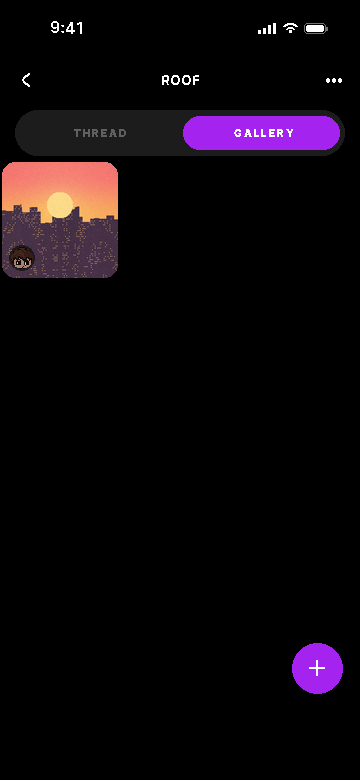
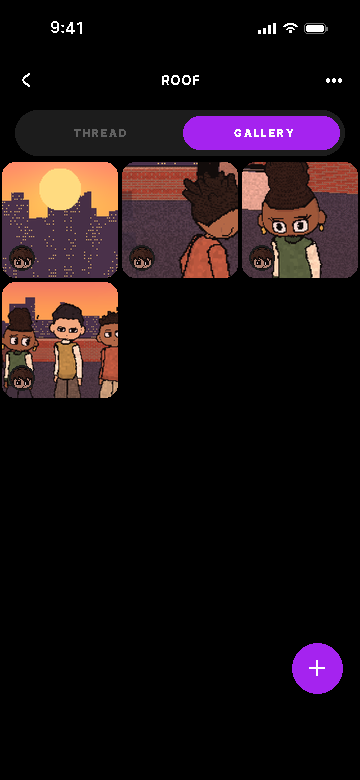
Group Photo rework: Maya speaks through the viewfinder; the album holds every try, and the zoom lands on the one Theo means
Claude-Session: https://claude.ai/code/session_019i3sgUp6puAAVeufqbiryk

Changed region(s): [[0.0, 0.1846, 1.0, 0.5231]]

diff --git a/studio/anim/src/ep/skits/groupPhoto.ts b/studio/anim/src/ep/skits/groupPhoto.ts
@@ -24,18 +24,22 @@ const shots: Shot[] = [
   // so he climbs on a chair
   { n: 9, frames: 34, spec: R('chair', [at('nio', 'chair', 'deadpan', { hold: 'photo' })], true, 0.35), sfx: [['oh_creak', 2, 0.5]] },
   { n: 10, frames: 40, spec: R('theoUp', [at('theo', 'theo', 'suspicious', { facing: 'nio2', gaze: [0, 0.6] })], true), say: [L('gp_05', 'theo', 4)] },
-  { n: 11, frames: 32, spec: R('pov', [{ who: 'theo', at: 'theo', to: 'theoOut', action: 'walk', face: 'deadpan', back: true }, at('maya', 'maya', 'neutral', { facing: 'nio2', gaze: [0, 0.5] })], true) },
+  { n: 11, frames: 32, finder: true, spec: R('pov', [{ who: 'theo', at: 'theo', to: 'theoOut', action: 'walk', face: 'deadpan', back: true }, at('maya', 'maya', 'neutral', { facing: 'nio2', gaze: [0, 0.5] })], true) },
   { n: 12, frames: 30, spec: R('chair', [at('nio', 'chair', 'uneasy', { hold: 'photo' })], true, 0.25) },
-  // Maya, the last one in the picture, says it to him, and goes
-  { n: 13, frames: 84, spec: R('maya', [at('maya', 'maya', 'real', { facing: 'nio2', gaze: [0, 0.5] })], true, 0.3), say: [L('gp_06', 'maya', 4)] },
-  { n: 14, frames: 30, spec: R('pov', [{ who: 'maya', at: 'maya', to: 'mayaOut', action: 'walk', face: 'neutral', back: true }], true) },
+  // Maya, the last one in the picture, says it to him through his phone (stranger, Nov 18: her line read as his until
+  // we saw she is the only one in the photo), and goes
+  { n: 13, frames: 84, finder: true, spec: R('povM', [at('maya', 'maya', 'real', { facing: 'nio2', gaze: [0, 0.5] })], true, 0.15), say: [L('gp_06', 'maya', 4)] },
+  { n: 14, frames: 30, finder: true, spec: R('pov', [{ who: 'maya', at: 'maya', to: 'mayaOut', action: 'walk', face: 'neutral', back: true }], true) },
   // alone on the chair, he turns round to the sunset. Flash.
   { n: 15, frames: 28, spec: R('chair', [at('nio', 'chair', 'deadpan', { hold: 'photo' })], true, 0.2) },
-  { n: 16, frames: 34, shake: [12], spec: R('sunset', [], true, 0.2), flash: 12, sfx: [['shutter', 12, 0.9]] },
+  { n: 16, frames: 34, finder: true, shake: [12], spec: R('sunset', [], true, 0.2), flash: 12, sfx: [['shutter', 12, 0.9]] },
+  // the album: the sunset with nobody in it, and every try before it (the cause of the last line is in the picture)
   { n: 17, frames: 52, img: 'pxi-ui/screens/roof-album.png' },
-  // later: all four crowd round Theo's phone, scrolling the album
-  // Theo, who says the last line, holds the phone front and centre (own check, Nov 18: Nio in front hid the speaker)
+  // later: all four crowd round Theo's phone, scrolling the album. Theo, who says the last line, holds the phone front
+  // and centre (own check, Nov 18: Nio in front hid the speaker)
   { n: 18, frames: 50, spec: R('phone', [at('theo', 'nio2', 'hyped', { facing: 'camera', gaze: [0, -0.4], hold: 'phone' }), at('nio', 'theoP', 'deadpan', { gaze: [-0.5, -0.4] }), at('maya', 'mayaP', 'charm', { gaze: [0.5, -0.4] }), at('sami', 'samiB', 'neutral', { gaze: [0.3, -0.4] })]), say: [L('gp_08', 'theo', 6)] },
-  { n: 19, frames: 40, spec: R('phone', [at('theo', 'nio2', 'hyped', { facing: 'camera', gaze: [0, -0.4], hold: 'phone' }), at('nio', 'theoP', 'deadpan', { gaze: [-0.9, 0.1] }), at('maya', 'mayaP', 'charm', { gaze: [0.5, -0.4] }), at('sami', 'samiB', 'neutral', { gaze: [0.3, -0.4] })], false, 0.25) },
+  // the one he means: the try where he is walking out of it, half his back
+  { n: 19, frames: 36, img: 'pxi-ui/screens/roof-album.png', zoom: [2.6, 30], sfx: [['oh_tap', 4, 0.7]] },
+  { n: 20, frames: 40, spec: R('phone', [at('theo', 'nio2', 'hyped', { facing: 'camera', gaze: [0, -0.4], hold: 'phone' }), at('nio', 'theoP', 'deadpan', { gaze: [-0.9, 0.1] }), at('maya', 'mayaP', 'charm', { gaze: [0.5, -0.4] }), at('sami', 'samiB', 'neutral', { gaze: [0.3, -0.4] })], false, 0.25) },
 ];
 export const GROUP_PHOTO: SkitDef = { id: 'group-photo', shots, beds: [['sk_wind', 0.3]] };

diff --git a/studio/anim/src/ep/Skit.tsx b/studio/anim/src/ep/Skit.tsx
@@ -30,7 +30,7 @@ import ACC_WB from '../lips/wb_accents.json';
 export type Line = { key: string; who: string; at: number }; // at: the frame inside the shot where the line starts
 // img: a full-screen picture instead of a set (a PXI screen, public/<img>), pushed in slowly. zoom: [scale, the height
 // it zooms toward, percent from the top], for a screen whose point is one row. flash: a camera flash at this frame.
-export type Shot = { n: number; frames: number; spec?: ShotSpec | ((f: number) => ShotSpec); img?: string; zoom?: [number, number]; flash?: number; shake?: number[]; drop?: [number, number, number, number, number]; poof?: [number, number, number][]; rain?: boolean; say?: Line[]; sfx?: [string, number, number?][] };
+export type Shot = { n: number; frames: number; spec?: ShotSpec | ((f: number) => ShotSpec); img?: string; zoom?: [number, number]; flash?: number; shake?: number[]; drop?: [number, number, number, number, number]; poof?: [number, number, number][]; rain?: boolean; finder?: boolean; say?: Line[]; sfx?: [string, number, number?][] };
 // beds: [sound, volume, the shot it stops at (optional: else it runs to the end)]
 export type SkitDef = { id: string; shots: Shot[]; beds: [string, number, number?][] };
 type VoLine = { file: string; who: string; sub: string; dur: number };
@@ -65,6 +65,10 @@ const Rain: React.FC = () => { const f = Math.floor(useCurrentFrame() / 2) * 2;
 const Drop: React.FC<{ d: [number, number, number, number, number] }> = ({ d: [at, x0, y0, x1, y1] }) => { const f = useCurrentFrame() - at; if (f < 0 || f > 7) return null;
   const k = (f / 7) ** 2, x = x0 + (x1 - x0) * k, y = y0 + (y1 - y0) * k;
   return <svg width={1080} height={1920} style={{ position: 'absolute', left: 0, top: 0 }}><ellipse cx={x} cy={y} rx={62} ry={62 * Math.max(0.15, Math.cos(f * 0.5))} fill="none" stroke="#2a2024" strokeWidth={18} /><ellipse cx={x} cy={y} rx={62} ry={62 * Math.max(0.15, Math.cos(f * 0.5))} fill="none" stroke="#d4a72c" strokeWidth={9} /></svg>; };
+// through Nio's phone: four white corner marks, so the viewer knows this frame is the photo being taken (the cause in
+// the picture: who is in the shot, and who is not). Plain marks, no app interface.
+const Finder: React.FC = () => <svg width={1080} height={1920} style={{ position: 'absolute', left: 0, top: 0 }}>{[[90, 260, 1, 1], [990, 260, -1, 1], [90, 1660, 1, -1], [990, 1660, -1, -1]].map(([x, y, a, b], k) =>
+  <path key={k} d={`M ${x} ${y + b * 110} L ${x} ${y} L ${x + a * 110} ${y}`} fill="none" stroke="#fff" strokeWidth={12} strokeLinecap="round" opacity={0.9} />)}</svg>;
 const Flash: React.FC<{ at: number }> = ({ at }) => { const f = useCurrentFrame() - at; return f < 0 || f > 8 ? null : <AbsoluteFill style={{ background: '#fff', opacity: 1 - f / 8 }} />; };
 // a hit on a big beat (founder, Nov 18: "the camera zooming slighlty and shaking and vibrating with some sound"): the
 // picture jolts and shakes for 10 frames, a 4 percent punch-in easing back. shake: the frames it hits on (with sk_hit).
@@ -96,6 +100,7 @@ export const Skit: React.FC<SkitProps> = (p) => {
       {shots.map((s) => (
         <Sequence key={s.n} from={s.from} durationInFrames={s.frames}>
           <Shake at={s.shake ?? []}><ShotView shot={s} /></Shake>
+          {s.finder ? <Finder /> : null}
           {s.flash !== undefined ? <Flash at={s.flash} /> : null}
           {s.drop ? <Drop d={s.drop} /> : null}
           {s.rain ? <Rain /> : null}

diff --git a/studio/anim/src/nw3d/campus.ts b/studio/anim/src/nw3d/campus.ts
@@ -707,6 +707,7 @@ export const ROOF_CAMS: Record<string, Cam3> = {
   sami: C([3.7, 1.45, 8.6], [4.0, 1.42, 6.6], 40),
   theoUp: C([3.9, 2.05, 8.9], [3.3, 1.3, 6.5], 46), // Theo, looking up at the camera on the chair
   sunset: C([4.0, 1.95, 9.3], [4.0, 1.75, 12.0], 62), // turned round on the chair: the sun going down over the city (an insert)
+  povM: C([4.0, 2.0, 8.95], [4.7, 1.2, 6.5], 56), // Nio's phone on the last one left in the picture: Maya
   pov: C([4.0, 2.0, 8.95], [4.0, 1.15, 6.5], 72), // Nio's phone up on the chair: the line, and the sunset behind us
   chair: C([3.0, 0.7, 7.2], [4.0, 1.7, 9.1], 50), // Nio up on the chair, from below, the violet sky behind him
   nio: C([3.3, 1.45, 6.4], [4.0, 1.4, 9.1], 40), // Nio from where the three were

diff --git a/studio/anim/tools/pxi/screens.py b/studio/anim/tools/pxi/screens.py
@@ -450,14 +450,16 @@ def discover_map(event='Office Hours', when='ALWAYS', venue='Haverbrook Hall', p
     tabbar(s, 0)
     return s.im
 
-def roof_album(photo=os.path.join(ANIM, 'out', 'os', 'r3.png')):
-    """Group Photo: the Roof album's gallery after the shoot. The same gallery as gallery() (AlbumMasonryGrid.tsx): the
-    viewer's one shot, the sunset with nobody in it, and nothing else."""
+def roof_album():
+    """Group Photo: the Roof album's gallery after the shoot (AlbumMasonryGrid.tsx, as gallery()). Every try is in it:
+    the sunset with nobody in it, Theo walking out of one, Maya alone, and the first one with three of them. The
+    centre tile is the one Theo means at the end, so the zoom in shot 19 lands on it (out/skit-stills/gp*.png)."""
     s = Screen()
-    im = Image.open(photo).convert('RGB'); w0, h0 = im.size; c = min(w0, h0)
-    sq = im.crop(((w0 - c) // 2, int(h0 * 0.12), (w0 - c) // 2 + c, int(h0 * 0.12) + c)).resize((116, 116), Image.LANCZOS)
-    s.photo(sq, 2, 162, 118, 278, r=pt(14))
-    s.disc(9, 245, 26, G1C); s.avatar(pic('avatar', 22, 22), 11, 247, 22)
+    tiles = [(still('gp822'), 0.5, 0.42, 0.62), (still('gp574'), 0.74, 0.47, 0.5), (still('gp700'), 0.5, 0.5, 0.62), (still('gp245'), 0.45, 0.5, 0.8)]
+    for i, (im, cx, cy, k) in enumerate(tiles):
+        x, y = (i % 3) * 120, 160 + (i // 3) * 120
+        s.photo(sq(im, cx, cy, k).resize((116, 116), Image.LANCZOS), x + 2, y + 2, x + 118, y + 118, r=pt(14))
+        s.disc(x + 9, y + 85, 26, G1C); s.avatar(pic('avatar', 22, 22), x + 11, y + 87, 22)
     s.box(0, 0, W, 158, BLACK); header(s, 'Roof'); switch(s, 'GALLERY')
     s.disc(292, 643, 51, PURPLE); s.icon('Add01Icon', 24, 317, 668, WHITE)
     return s.im
